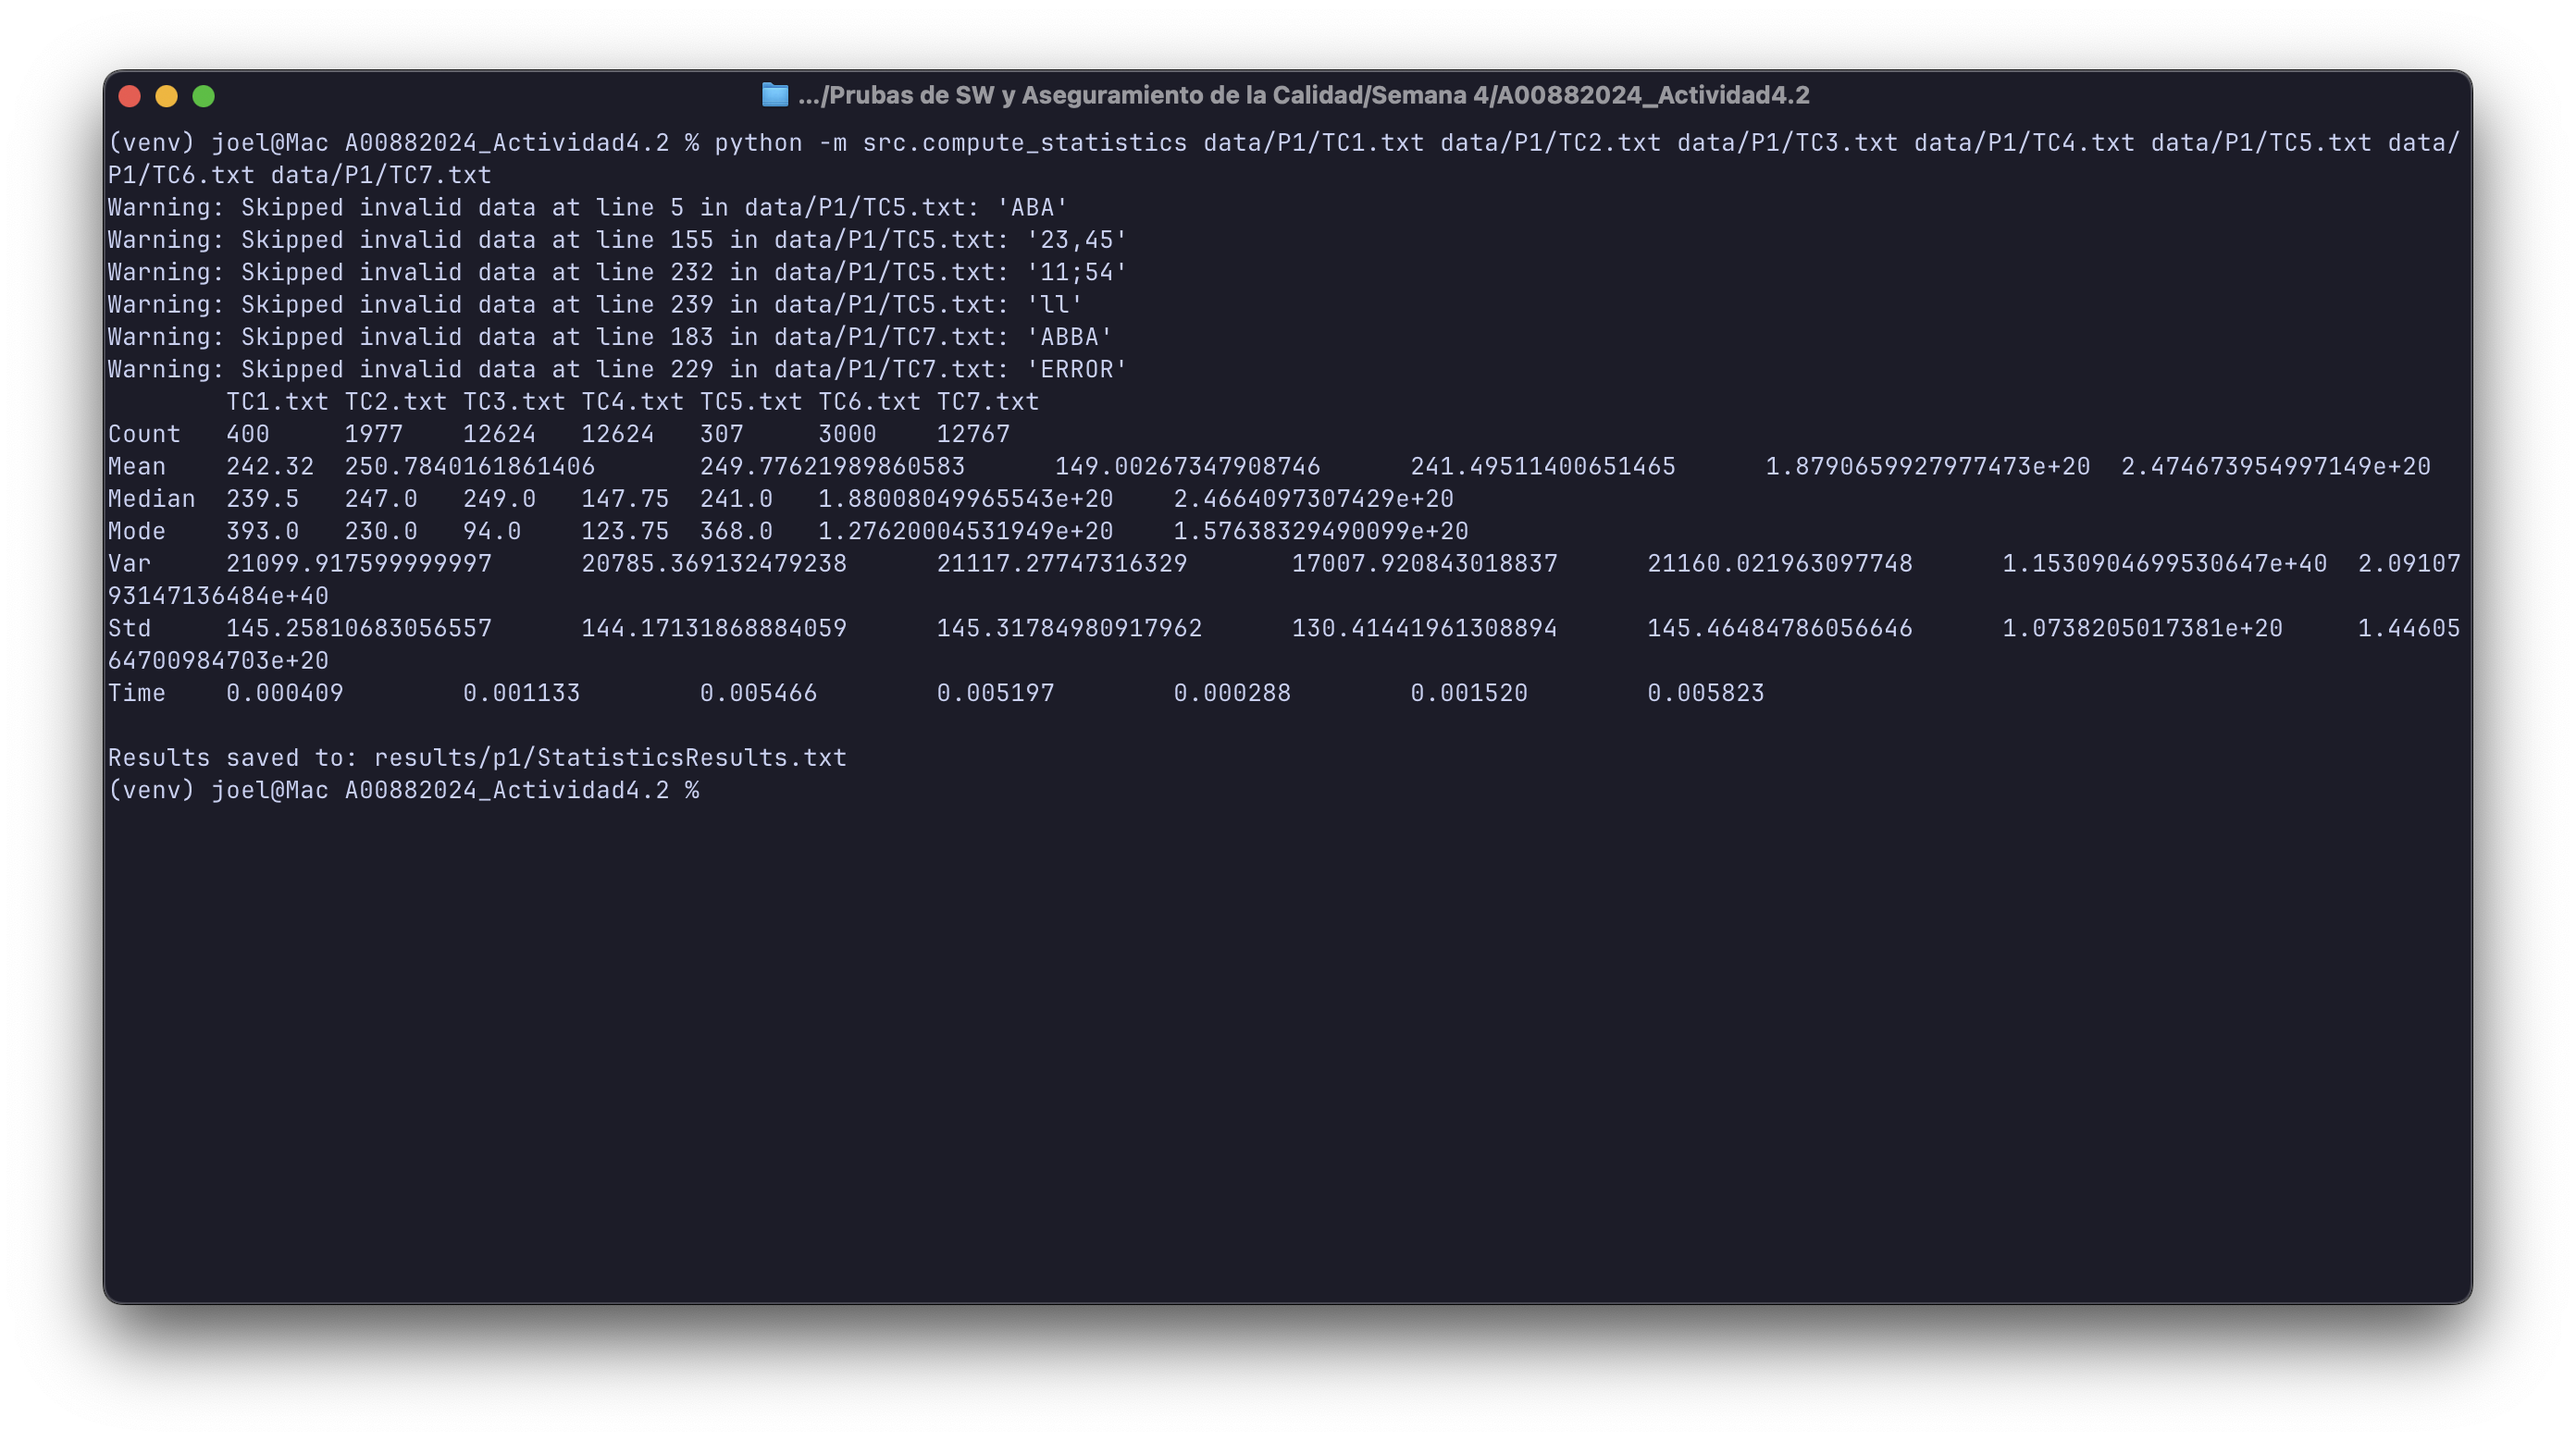
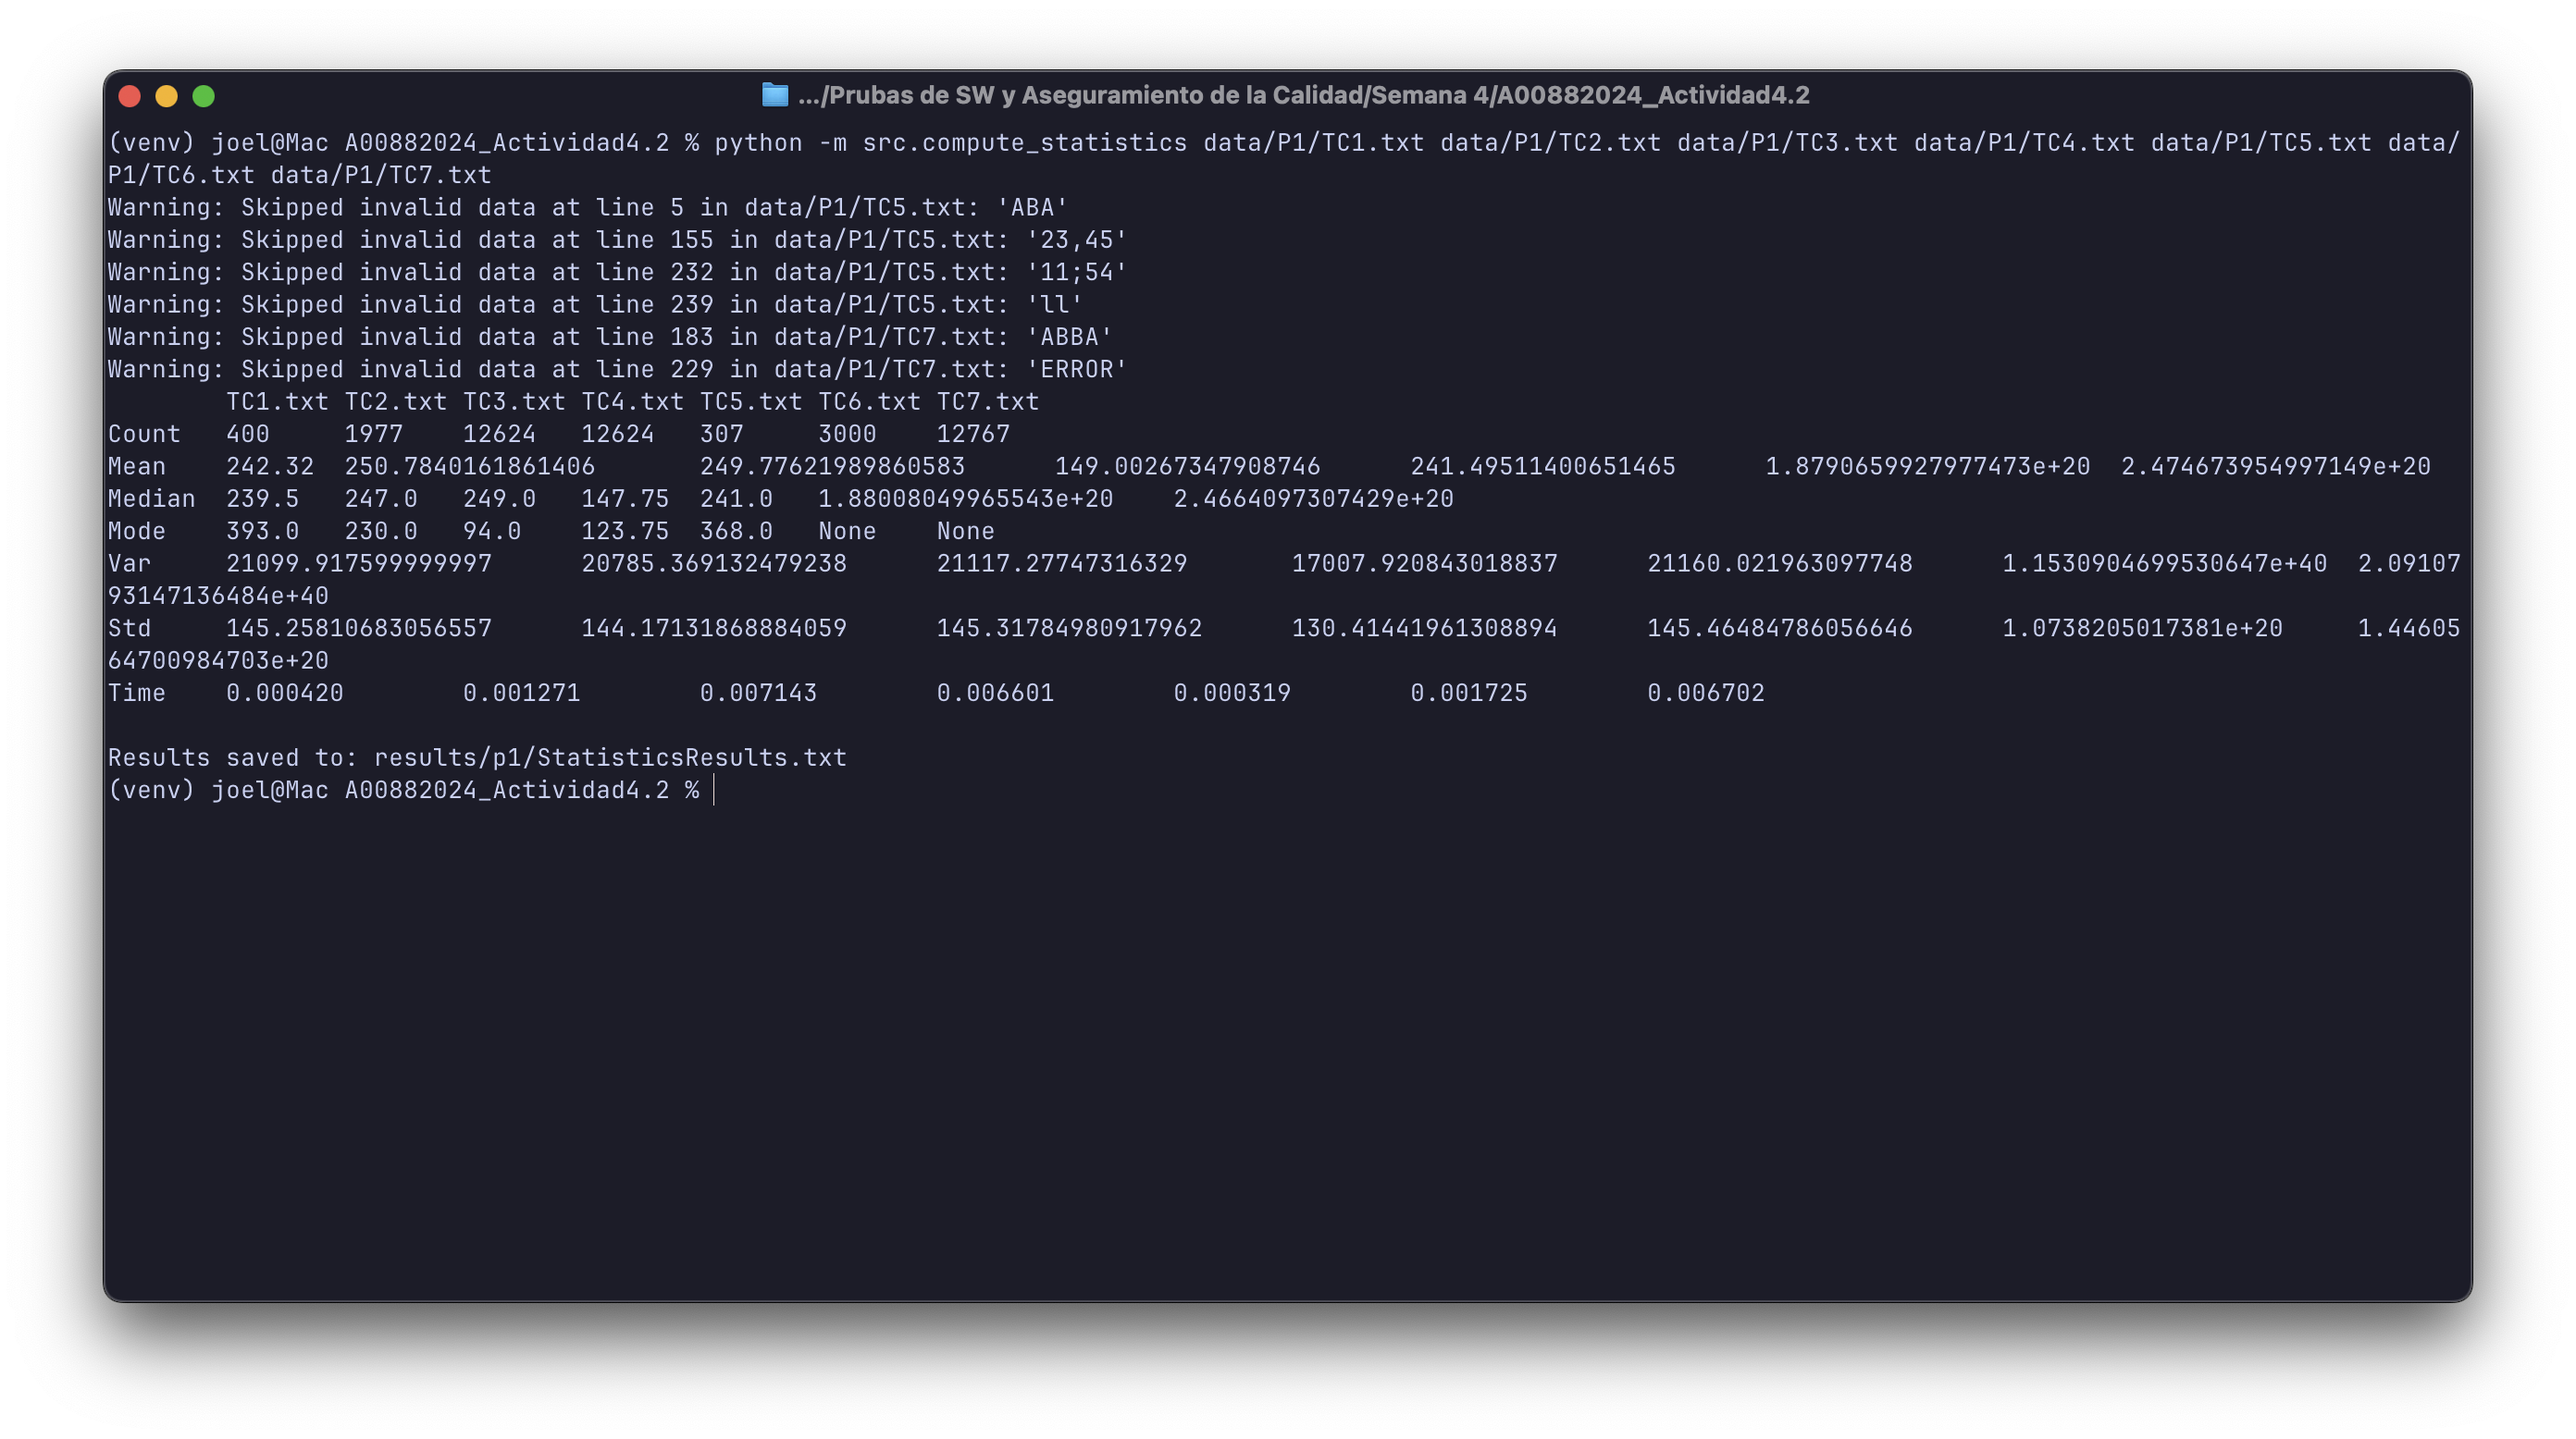
Fix bug in mode implementation for all unique numbers

diff --git a/src/stats.py b/src/stats.py
@@ -29,7 +29,19 @@ def median(data):
 
 
 def mode(data):
-    """Calculate the mode."""
+    """
+    Calculate the mode.
+
+    Returns the most common element in a list
+
+    mode([1, 1, 2]) => 1
+
+    mode([2, 2, 2]) => 2
+
+    When all elements are unique returns None
+
+    mode([1, 2, 3]) => None
+    """
     counts = {}
     max_key = None
     max_count = 0
@@ -39,6 +51,9 @@ def mode(data):
         if counts[value] > max_count:
             max_count = counts[value]
             max_key = value
+
+    if max_count == 1:
+        return None
 
     return max_key
 

diff --git a/tests/test_statistics.py b/tests/test_statistics.py
@@ -63,6 +63,9 @@ class TestMode(unittest.TestCase):
     def test_mode_all_same(self):
         self.assertEqual(mode([5, 5, 5]), 5)
 
+    def test_mode_all_unique(self):
+        self.assertEqual(mode([1, 2, 3]), None)
+
 
 class TestVariance(unittest.TestCase):
     """Tests for the variance function."""
